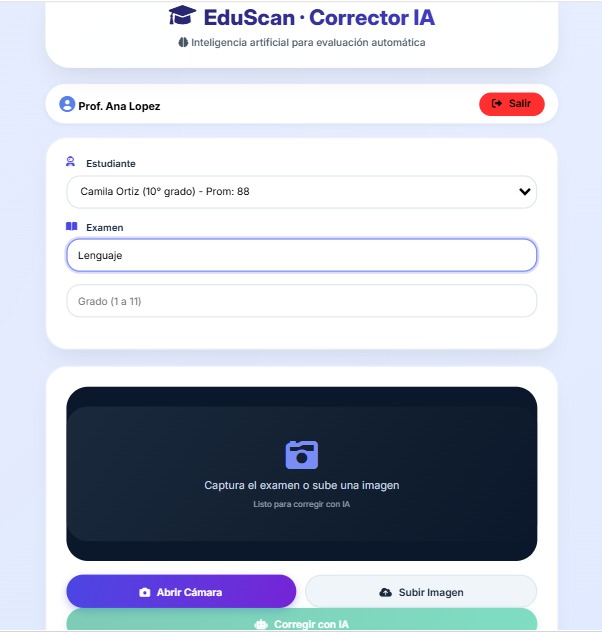
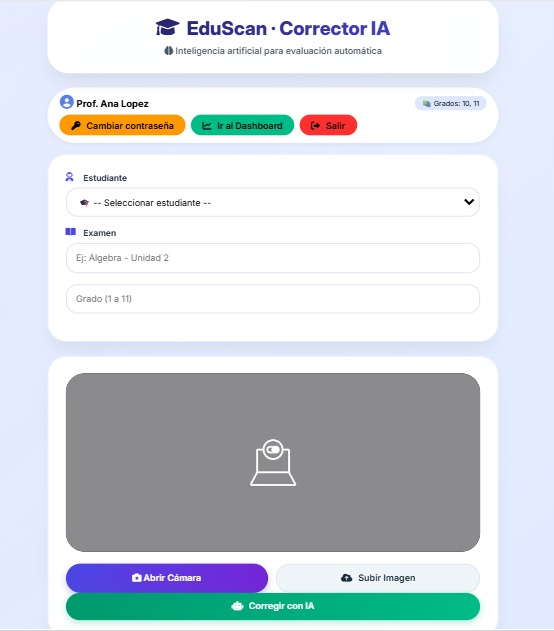
Mejora: Dashboard actualizado y limpieza de archivos duplicados
- Mejorado diseño UI/UX del dashboard
- Eliminado requirements.txt duplicado de eduscan-ia
- Actualizadas dependencias del backend
- Optimizada experiencia de usuario

diff --git a/frontend/dashboard_corrector.html b/frontend/dashboard_corrector.html
@@ -10,104 +10,172 @@
         * { margin: 0; padding: 0; box-sizing: border-box; }
         body {
             font-family: 'Inter', sans-serif;
-            background: linear-gradient(145deg, #eef2ff 0%, #e0e7ff 100%);
+            background: linear-gradient(145deg, #f5f7ff 0%, #eef2ff 100%);
             min-height: 100vh;
             padding: 28px 20px;
-            position: relative;
         }
-        body::before {
-            content: "";
-            position: fixed;
-            top: 0;
-            left: 0;
-            width: 100%;
-            height: 100%;
-            background-image: radial-gradient(circle at 10% 20%, rgba(79, 70, 229, 0.03) 0%, transparent 60%);
-            pointer-events: none;
-            z-index: 0;
-        }
-        .container { max-width: 760px; margin: 0 auto; position: relative; z-index: 2; }
+        .container { max-width: 1200px; margin: 0 auto; }
+        
+        /* Header */
         .header {
-            background: rgba(255, 255, 255, 0.98);
-            backdrop-filter: blur(2px);
-            border-radius: 36px;
-            padding: 28px 24px;
-            margin-bottom: 24px;
-            text-align: center;
-            box-shadow: 0 20px 35px -12px rgba(0, 0, 0, 0.1);
-            border: 1px solid rgba(255, 255, 255, 0.5);
+            background: white;
+            border-radius: 28px;
+            padding: 24px 32px;
+            margin-bottom: 28px;
+            box-shadow: 0 8px 20px rgba(0,0,0,0.05);
+            border: 1px solid rgba(79, 70, 229, 0.1);
         }
         .header h1 {
             background: linear-gradient(135deg, #1e1b4b, #4f46e5);
             background-clip: text;
             -webkit-background-clip: text;
             color: transparent;
-            margin-bottom: 10px;
-            font-size: 2rem;
+            font-size: 1.8rem;
             font-weight: 800;
             display: flex;
             align-items: center;
             justify-content: center;
             gap: 12px;
         }
-        .header p { color: #4b5563; font-weight: 500; font-size: 0.95rem; }
+        .user-bar {
+            display: flex;
+            justify-content: space-between;
+            align-items: center;
+            flex-wrap: wrap;
+            gap: 16px;
+            margin-top: 16px;
+            padding-top: 16px;
+            border-top: 1px solid #e2e8f0;
+        }
+        
+        /* Grid de tarjetas */
+        .cards-grid {
+            display: grid;
+            grid-template-columns: repeat(auto-fit, minmax(380px, 1fr));
+            gap: 24px;
+            margin-bottom: 28px;
+        }
+        
+        /* Tarjetas */
         .card {
             background: white;
-            border-radius: 32px;
+            border-radius: 28px;
             padding: 28px;
-            margin-bottom: 24px;
-            box-shadow: 0 20px 30px -12px rgba(0, 0, 0, 0.08);
-            border: 1px solid #f0f2f8;
+            box-shadow: 0 8px 24px rgba(0,0,0,0.05);
+            border: 1px solid rgba(79, 70, 229, 0.08);
+            transition: transform 0.2s, box-shadow 0.2s;
+        }
+        .card:hover {
+            transform: translateY(-2px);
+            box-shadow: 0 16px 32px rgba(0,0,0,0.1);
+        }
+        .card-title {
+            font-size: 1.3rem;
+            font-weight: 700;
+            margin-bottom: 20px;
+            display: flex;
+            align-items: center;
+            gap: 10px;
+            color: #1e293b;
+        }
+        .card-title i { color: #4f46e5; font-size: 1.4rem; }
+        .card-badge {
+            background: #eef2ff;
+            color: #4f46e5;
+            padding: 4px 12px;
+            border-radius: 20px;
+            font-size: 0.7rem;
+            font-weight: 600;
+            margin-left: 12px;
         }
         label {
             font-weight: 600;
-            color: #1e293b;
+            color: #334155;
             margin-bottom: 8px;
             display: flex;
             align-items: center;
             gap: 8px;
-            font-size: 0.9rem;
+            font-size: 0.85rem;
         }
-        label i { color: #4f46e5; width: 22px; }
-        select, input {
+        select, input, textarea {
             width: 100%;
-            padding: 14px 16px;
+            padding: 12px 16px;
             margin-bottom: 18px;
-            border-radius: 20px;
+            border-radius: 16px;
             border: 1.5px solid #e2e8f0;
             font-family: 'Inter', sans-serif;
-            font-size: 0.95rem;
+            font-size: 0.9rem;
             transition: all 0.2s;
         }
-        select:focus, input:focus {
+        select:focus, input:focus, textarea:focus {
             outline: none;
             border-color: #818cf8;
-            box-shadow: 0 0 0 3px rgba(79, 70, 229, 0.2);
+            box-shadow: 0 0 0 3px rgba(79, 70, 229, 0.15);
+            background: white;
         }
+        
+      /* Botones */
         button {
-            width: 100%;
-            padding: 14px;
-            border-radius: 28px;
+            padding: 12px 20px;
+            border-radius: 24px;
             font-family: 'Inter', sans-serif;
             font-weight: 600;
-            font-size: 0.95rem;
+            font-size: 0.9rem;
             border: none;
             cursor: pointer;
             transition: all 0.2s;
             display: inline-flex;
             align-items: center;
             justify-content: center;
-            gap: 10px;
+            gap: 8px;
         }
         button:active { transform: scale(0.97); }
-        .btn-primary { background: linear-gradient(105deg, #4f46e5, #6d28d9); color: white; box-shadow: 0 5px 12px rgba(79, 70, 229, 0.3); }
-        .btn-primary:hover:not(:disabled) { transform: translateY(-2px); }
-        .btn-secondary { background: #f1f5f9; color: #1e293b; border: 1px solid #e2e8f0; }
-        .btn-success { background: linear-gradient(115deg, #059669, #10b981); color: white; box-shadow: 0 4px 12px rgba(16, 185, 129, 0.3); }
-        .btn-success:hover:not(:disabled) { transform: translateY(-2px); }
-        .btn-warning { background: linear-gradient(115deg, #d97706, #f59e0b); color: white; }
-        .btn-danger { background: #ef4444; color: white; }
         button:disabled { opacity: 0.5; cursor: not-allowed; }
+
+        .btn-primary { 
+            background: linear-gradient(105deg, #4f46e5, #6d28d9); 
+            color: white; 
+            box-shadow: 0 4px 12px rgba(79, 70, 229, 0.3); 
+        }
+        .btn-primary:hover:not(:disabled) { transform: translateY(-2px); }
+
+        .btn-secondary { 
+            background: #f1f5f9; 
+            color: #1e293b; 
+            border: 1px solid #e2e8f0; 
+        }
+
+        .btn-success { 
+            background: linear-gradient(115deg, #059669, #10b981); 
+            color: white; 
+            box-shadow: 0 4px 12px rgba(16, 185, 129, 0.3); 
+        }
+        .btn-success:hover:not(:disabled) { transform: translateY(-2px); }
+
+        .btn-warning { 
+            background: linear-gradient(115deg, #d97706, #f59e0b); 
+            color: white; 
+        }
+        .btn-danger { 
+            background: #ef4444; 
+            color: white; 
+        }
+        .btn-outline { 
+            background: transparent; 
+            border: 2px solid #4f46e5; 
+            color: #4f46e5; 
+        }
+        .btn-sm { 
+            padding: 8px 16px; 
+            font-size: 0.8rem; 
+        }
+        .flex-buttons { 
+            display: flex; 
+            gap: 12px; 
+            flex-wrap: wrap; 
+            margin-top: 8px; 
+        }
+
         .camera-preview {
             background: #0f172a;
             border-radius: 32px;
@@ -235,18 +303,68 @@
 </head>
 <body>
 
-<!-- Pantalla de Login -->
+<!-- Pantalla de Login Mejorada -->
 <div id="loginSection" class="login-container">
-    <h2><i class="fas fa-graduation-cap"></i> EduScan</h2>
-    <p style="text-align: center; color: #64748b; margin-bottom: 30px;">Acceso Docente - Corrector IA</p>
-    <input type="email" id="email" placeholder="Correo electrónico" value="ana@eduscan.com">
-    <input type="password" id="password" placeholder="Contraseña" value="123">
-    <button onclick="login()" class="btn-primary"><i class="fas fa-sign-in-alt"></i> Ingresar</button>
-    <div id="loginError" style="color: red; text-align: center; margin-top: 15px;"></div>
-    <p style="text-align: center; margin-top: 20px; font-size: 12px; color: #94a3b8;">
-        <i class="fas fa-info-circle"></i> ana@eduscan.com / 123 (grados 10°-11°)<br>
-        carlos@eduscan.com / 123 (grados 8°-9°)
-    </p>
+    <div class="login-brand">
+        <div class="logo-icon">
+            <i class="fas fa-graduation-cap"></i>
+        </div>
+        <h1>EduScan</h1>
+        <p class="tagline">Corrector de exámenes con IA</p>
+    </div>
+    
+    <div class="login-form">
+        <div class="form-header">
+            <h2>Acceso docente</h2>
+            <p>Ingresa con tus credenciales</p>
+        </div>
+        
+        <div class="input-group">
+            <div class="input-icon">
+                <i class="fas fa-envelope"></i>
+            </div>
+            <input type="email" id="email" placeholder="Correo electrónico" value="ana@eduscan.com">
+        </div>
+        
+        <div class="input-group">
+            <div class="input-icon">
+                <i class="fas fa-lock"></i>
+            </div>
+            <input type="password" id="password" placeholder="Contraseña" value="123">
+            <button type="button" class="toggle-password" onclick="togglePassword()">
+                <i class="fas fa-eye"></i>
+            </button>
+        </div>
+        
+        <button onclick="login()" class="btn-login">
+            <i class="fas fa-sign-in-alt"></i>
+            Ingresar al sistema
+            <i class="fas fa-arrow-right"></i>
+        </button>
+        
+        <div id="loginError" class="error-message"></div>
+    </div>
+    
+    <div class="login-footer">
+        <div class="credenciales-info">
+            <i class="fas fa-info-circle"></i>
+            <span>Credenciales de prueba</span>
+        </div>
+        <div class="credenciales-grid">
+            <div class="credencial-card">
+                <i class="fas fa-chalkboard-user"></i>
+                <strong>ana@eduscan.com</strong>
+                <span>123</span>
+                <small>Grados 10° - 11°</small>
+            </div>
+            <div class="credencial-card">
+                <i class="fas fa-chalkboard-user"></i>
+                <strong>carlos@eduscan.com</strong>
+                <span>123</span>
+                <small>Grados 8° - 9°</small>
+            </div>
+        </div>
+    </div>
 </div>
 
 <!-- Contenido del Corrector (oculto hasta login) -->

diff --git a/backend/init_db_simple.py b/backend/init_db_simple.py
@@ -1,15 +1,81 @@
 import psycopg2
+import os
 
-DATABASE_URL = "postgresql://eduscan_user:BEAItZDgqRvBauTjKi52BYgGO7rZqAct@dpg-d7g54nhj2pic7386h040.oregon-postgres.render.com/eduscan_db_72hg"
+# Cargar desde .env
+with open('.env', 'r') as f:
+    for line in f:
+        if line.startswith('DATABASE_URL='):
+            DATABASE_URL = line.strip().split('=', 1)[1]
+            break
 
-modos_ssl = ['require', 'prefer', 'allow', 'disable']
-
-for modo in modos_ssl:
+def init():
     try:
-        print(f"Probando sslmode={modo}...")
-        conn = psycopg2.connect(DATABASE_URL, sslmode=modo, connect_timeout=5)
-        print(f"✅ CONECTADO con sslmode={modo}")
+        print("🔌 Conectando...")
+        conn = psycopg2.connect(DATABASE_URL, sslmode='require')
+        conn.autocommit = True
+        cur = conn.cursor()
+        
+        print("✅ Conectado")
+        
+        # Crear tablas
+        cur.execute("""
+            CREATE TABLE IF NOT EXISTS docentes (
+                id_docente SERIAL PRIMARY KEY,
+                nombre VARCHAR(100) NOT NULL,
+                email VARCHAR(100) UNIQUE NOT NULL,
+                password_hash VARCHAR(255) NOT NULL,
+                rol VARCHAR(50) DEFAULT 'docente'
+            )
+        """)
+        print("✅ Tabla docentes")
+        
+        cur.execute("""
+            CREATE TABLE IF NOT EXISTS docente_grados (
+                id SERIAL PRIMARY KEY,
+                docente_id INTEGER REFERENCES docentes(id_docente),
+                grado INTEGER NOT NULL,
+                UNIQUE(docente_id, grado)
+            )
+        """)
+        print("✅ Tabla docente_grados")
+        
+        # Insertar docentes
+        hash_pass = '$2b$12$LQv3c1yqBWVHxkd0LHAkCOYz6TtxMQJqhN8/X4.VTtXEyMqCqB7QK'
+        cur.execute("""
+            INSERT INTO docentes (nombre, email, password_hash, rol) VALUES
+            ('Prof. Ana Lopez', 'ana@eduscan.com', %s, 'docente'),
+            ('Prof. Carlos Ruiz', 'carlos@eduscan.com', %s, 'docente'),
+            ('Administrador', 'admin@eduscan.com', %s, 'admin')
+            ON CONFLICT (email) DO NOTHING
+        """, (hash_pass, hash_pass, hash_pass))
+        print("✅ Docentes insertados")
+        
+        # Asignar grados
+        cur.execute("SELECT id_docente FROM docentes WHERE email = 'ana@eduscan.com'")
+        ana = cur.fetchone()
+        cur.execute("SELECT id_docente FROM docentes WHERE email = 'carlos@eduscan.com'")
+        carlos = cur.fetchone()
+        
+        if ana and carlos:
+            cur.execute("""
+                INSERT INTO docente_grados (docente_id, grado) VALUES
+                (%s, 10), (%s, 11), (%s, 8), (%s, 9)
+                ON CONFLICT (docente_id, grado) DO NOTHING
+            """, (ana[0], ana[0], carlos[0], carlos[0]))
+            print("✅ Grados asignados")
+        
+        # Mostrar resultados
+        cur.execute("SELECT nombre, email, rol FROM docentes")
+        print("\n📋 Docentes:")
+        for row in cur.fetchall():
+            print(f"   {row[0]} | {row[1]} | {row[2]}")
+        
+        cur.close()
         conn.close()
-        break
+        print("\n✅ Todo listo!")
+        
     except Exception as e:
-        print(f"❌ Falló con {modo}: {str(e)[:50]}")
+        print(f"❌ Error: {e}")
+
+if __name__ == "__main__":
+    init()
